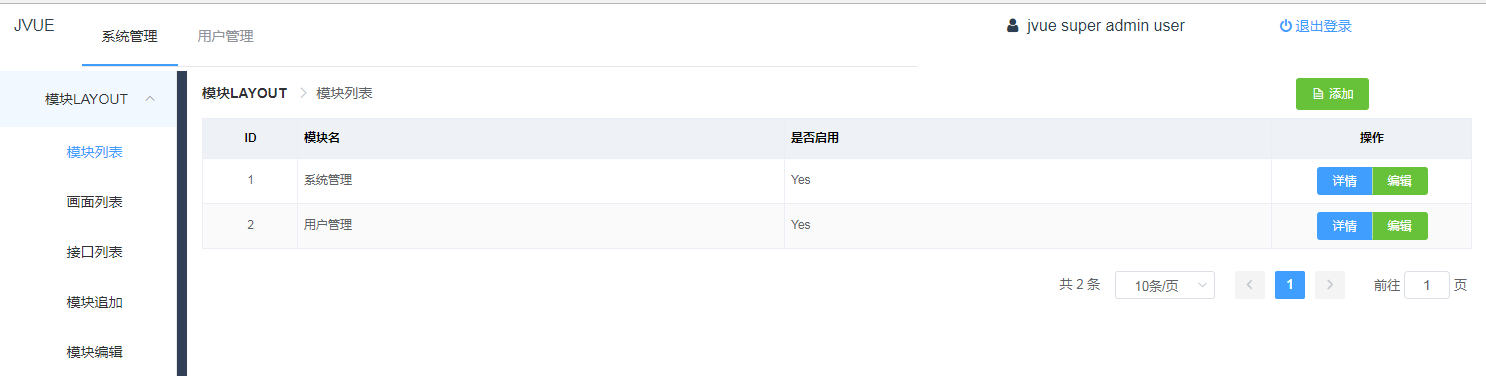
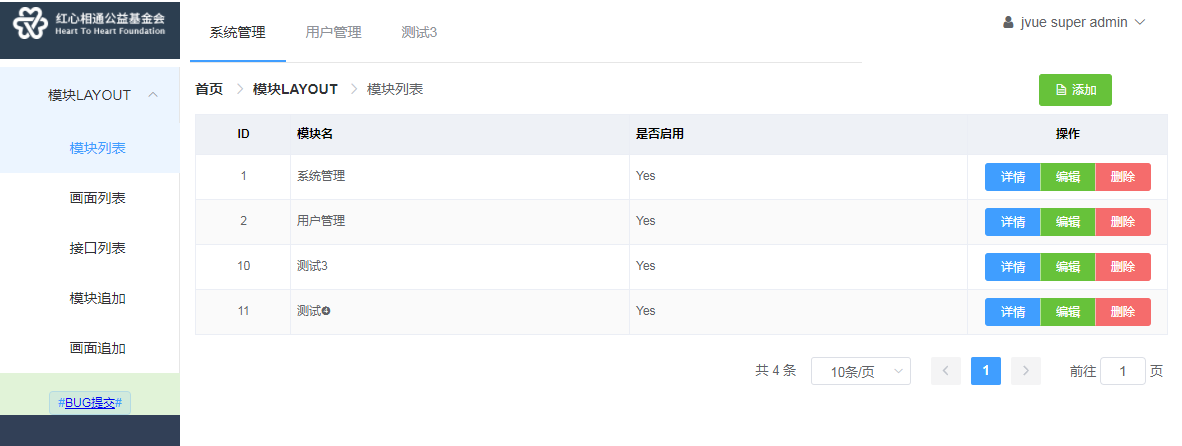
处理导航默认行为

diff --git a/client/jvue-client/src/pages/common/main.vue b/client/jvue-client/src/pages/common/main.vue
@@ -5,10 +5,11 @@
       <el-row>
         <el-col :span="18" class="logo">
           <el-row :gutter="10">
-            <el-col :span="2">
-              <span class="logo-info-span">JVUE</span>
+            <el-col :span="5">
+              <div class="logo-info-span"><a href="https://www.hongxinxiangtong.org" target="hxxt">
+                <img src="/static/img/logo-white.png" alt="JVUE" /></a></div>
             </el-col>
-            <el-col :span="20">
+            <el-col :span="18">
               <el-menu :default-active="String(userSelf.moduleId)" mode="horizontal">
                 <el-menu-item v-for="module in userSelf.modules" :index="String(module.id)" :key="module.name"
                               @click="userSelf.changeModule(module.id)">{{module.name}}
@@ -33,7 +34,7 @@
     </el-col>
     <el-col :span="24" class="main">
       <aside>
-        <el-menu :default-active="String(userSelf.active)" router theme="dark" @open="handleOpen" @close="handleClose">
+        <el-menu :default-active="String(userSelf.active)" router theme="dark" @open="handleOpen" @close="handleClose" :default-openeds="userSelf.openeds">
           <template v-for="router in userSelf.leftRoutes">
             <el-submenu :index="router.path" :key="router.path"
                         v-if="router.children && router.children instanceof Array && router.children.length > 0">
@@ -51,7 +52,10 @@
         </div>
       </aside>
       <section class="content-container">
-        <el-breadcrumb separator-class="el-icon-arrow-right">
+        <el-breadcrumb separator-class="el-icon-arrow-right" v-if="$route.matched.length > 0">
+          <el-breadcrumb-item class="breadcrumb-inner" to="/">
+            首页
+          </el-breadcrumb-item>
           <el-breadcrumb-item class="breadcrumb-inner" v-for="item in $route.matched" v-if="item.meta.name"
                               :to="item.path? item: {path: '/'}" :key="item.path">
             {{item.meta.name}}
@@ -114,6 +118,14 @@
     .content-container {
       left: 180px;
     }
+  }
+  .logo-info-span {
+    background: #2c3e50;
+    padding:5px 2px;
+  }
+  .logo-info-span a>img{
+    width: 95%;
+    max-width: 262px;
   }
   /* 路由切换动效 */
   .fade-leave-active {

diff --git a/client/jvue-client/src/vuet/modules/user.js b/client/jvue-client/src/vuet/modules/user.js
@@ -23,7 +23,8 @@ export default {
           routers: [],
           leftRoutes: [],
           moduleId: null,
-          active: ''
+          active: '',
+          openeds: []
         }
       },
       async fetch () {
@@ -69,12 +70,14 @@ export default {
         if (this.moduleId !== moduleId) {
           this.moduleId = moduleId
           this.leftRoutes = []
+          this.openeds = []
           // 只需要处理第一层，第二层
           this.routers.forEach(router => {
             if (router.meta && router.meta.moduleId === moduleId && router.meta.showNav === 1) {
               // console.info(`router.meta.showNav = ${router.meta.showNav}`)
               let nrouter = Object.assign(router)
               if (nrouter.children) {
+                this.openeds.push(router.path)
                 nrouter.children = nrouter.children.filter((r) => r.meta && r.meta.showNav === 1)
               }
               this.leftRoutes.push(nrouter)

diff --git a/client/jvue-client/src/pages/sys/menu/add.vue b/client/jvue-client/src/pages/sys/menu/add.vue
@@ -20,9 +20,9 @@
         <el-input v-model="menuAdd.form.name" data-vv-name="menuName" v-validate
                   data-vv-rules="required|max:20"></el-input>
       </el-form-item>
-      <el-form-item label="画面类型" :error="errors.first('menuType')" data-vv-name="menuType" v-validate
-                    data-vv-rules="required">
-        <el-radio-group size="small" v-model="menuAdd.form.type">
+      <el-form-item label="画面类型" :error="errors.first('menuType')">
+        <el-radio-group size="small" v-model="menuAdd.form.type" data-vv-name="menuType" v-validate
+                        data-vv-rules="required">
           <el-radio-button :label="1">菜单</el-radio-button>
           <el-radio-button :label="2">画面</el-radio-button>
           <el-radio-button :label="3">菜单+画面</el-radio-button>

diff --git a/server/jvue-api/src/main/java/net/ccfish/jvue/service/impl/JvueModuleServiceImpl.java b/server/jvue-api/src/main/java/net/ccfish/jvue/service/impl/JvueModuleServiceImpl.java
@@ -3,6 +3,7 @@ package net.ccfish.jvue.service.impl;
 import java.util.Optional;
 
 import org.springframework.beans.factory.annotation.Autowired;
+import org.springframework.cache.annotation.CacheEvict;
 import org.springframework.data.jpa.repository.JpaRepository;
 import org.springframework.stereotype.Service;
 import org.springframework.transaction.annotation.Transactional;
@@ -40,6 +41,7 @@ public class JvueModuleServiceImpl
     }
     
     @Override
+    @CacheEvict(value = "JwtUserDetailsService", allEntries = true)
     public void delete(Integer id) {
         // 判断是否在其他表中使用，未使用时，可物理删除；如在menu等表里使用，逻辑删除
         SearchCriteria<JvueMenu> jvueMenuCriteria = new SearchCriteria<>();
@@ -58,6 +60,7 @@ public class JvueModuleServiceImpl
     }
 
     @Override
+    @CacheEvict(value = "JwtUserDetailsService", allEntries = true)
     public void update(Integer id, JvueModule data) {
         // throw new UnsupportedClassVersionError("不支持更新处理");
         Optional<JvueModule> entityResult = jvueModuleRepository.findById(id);
